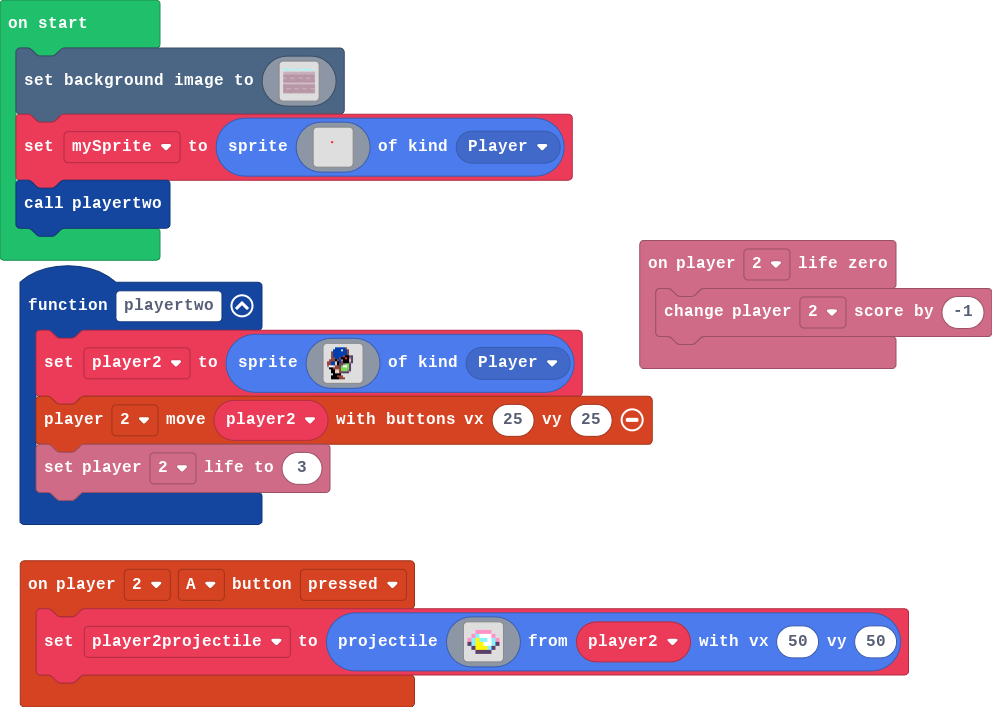
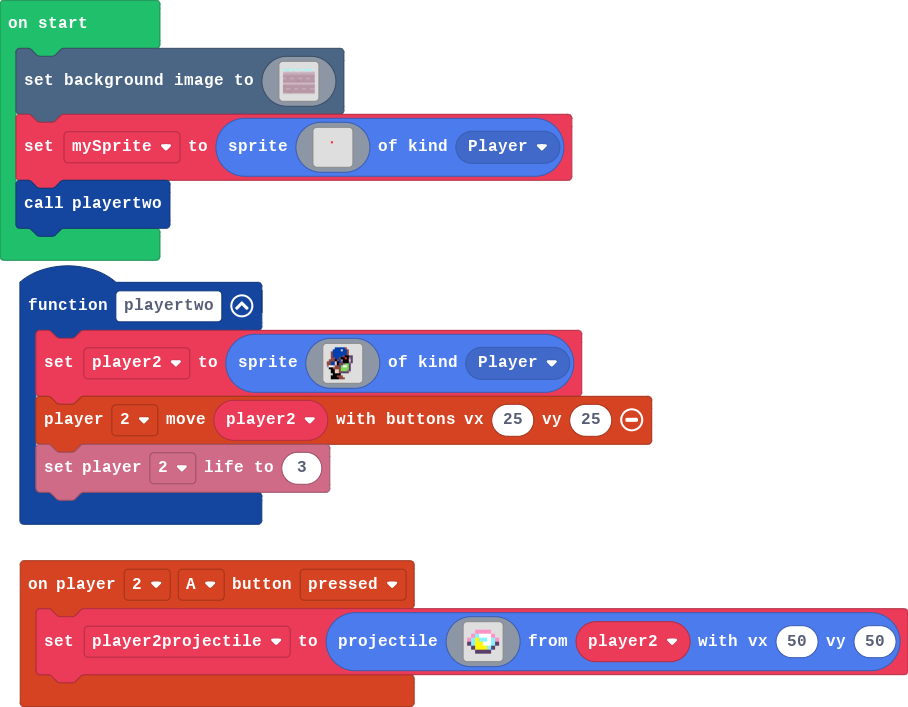
Update main.blocks, main.ts

diff --git a/main.ts b/main.ts
@@ -30,9 +30,6 @@ controller.player2.onButtonEvent(ControllerButton.A, ControllerButtonEvent.Press
         . . c c c c . . 
         `, player2, 50, 50)
 })
-info.player2.onLifeZero(function () {
-    info.player2.changeScoreBy(-1)
-})
 let player2projectile: Sprite = null
 let player2: Sprite = null
 scene.setBackgroundImage(img`
